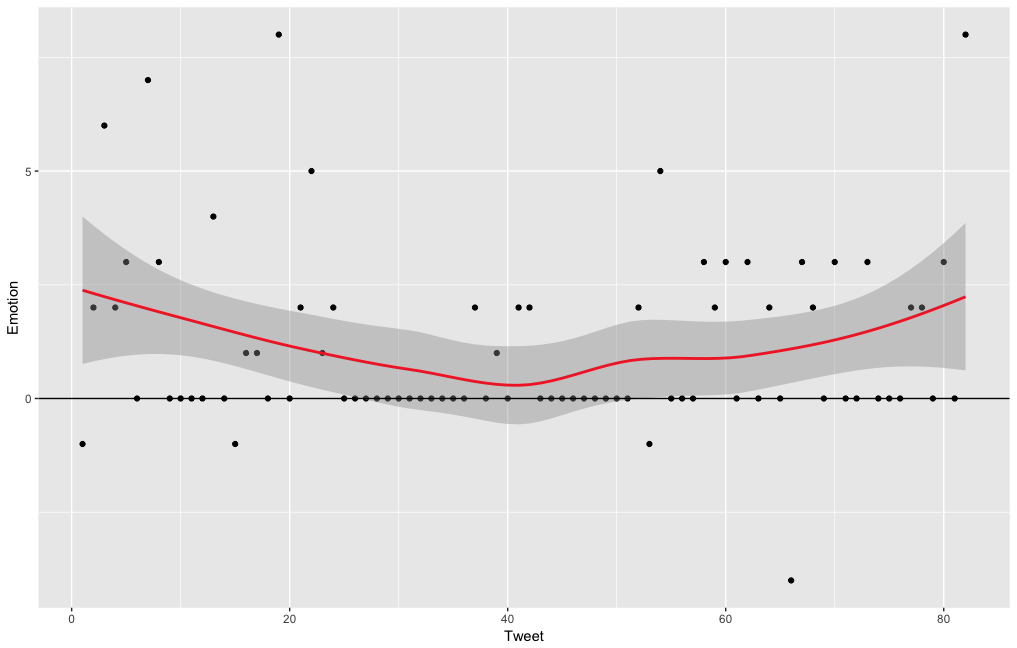
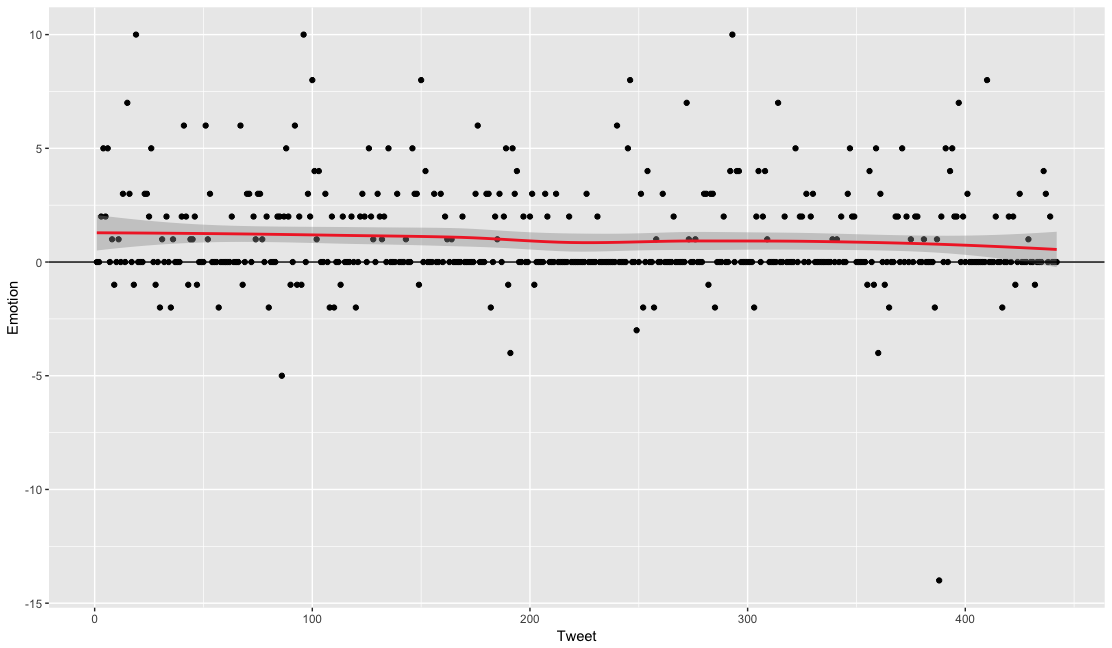
katy perry

diff --git a/index.html b/index.html
@@ -38,34 +38,34 @@
     <p>
         This analysis samples from the Top 10 Twitter accounts in terms of two types of accounts: 
         pop culture figures and political figures. Using the <code>twitteR</code> packages, I 
-        access <a href="http://twitter.com/justinbieber">@justinbieber</a>, <a href="http://twitter.com/KimKardashian">@KimKardashian</a>,
+        access <a href="http://twitter.com/katyperry">@katyperry</a>, <a href="http://twitter.com/KimKardashian">@KimKardashian</a>,
         <a href="http://twitter.com/barackobama">@BarackObama</a>, and <a href="http://twitter.com/realDonaldTrump">@realDonaldTrump</a>'s posts.
+        <br><br>
+        I will also be using the <code>gtrendsR</code> package to fetch Google Trends data on the popularity 
+        of these specific figures to see if their Twitter presence is correlated to their overall relevance and 
+        popularity.
     </p>
     <div class="spacer-5em"></div>
     <h2 class="title is-5">Sentiment</h2>
     <div class="card-container">
         <!-- Justin Bieber Card -->
-        <div style="width:20%">
-            <blockquote class="twitter-tweet" data-lang="en"><p lang="en" dir="ltr">Proud of these kids <a href="https://t.co/M796VNgWWV">pic.twitter.com/M796VNgWWV</a></p>&mdash; Justin Bieber (@justinbieber) <a href="https://twitter.com/justinbieber/status/976131121518804992?ref_src=twsrc%5Etfw">March 20, 2018</a></blockquote>
+        <div style="width:350px">
+            <blockquote class="twitter-tweet" data-lang="en"><p lang="en" dir="ltr">even when you don’t believe in love, love believes in you. ❤</p>&mdash; KATY PERRY (@katyperry) <a href="https://twitter.com/katyperry/status/983627056180224000?ref_src=twsrc%5Etfw">April 10, 2018</a></blockquote>
             <script async src="https://platform.twitter.com/widgets.js" charset="utf-8"></script>
+
         </div>
         <div class="spacer-5emh"></div>
-        <p style="width: 70%"> <br>
-            From a qualitative point of view, Justin Bieber typically uses his Twitter account
-            for music and album promotion as well as a vector for social cause advocacy. Therefore, 
-            we can see that his tweets are relatively neutral and positive when praising and commending 
-            groups for their effort related to a social cause. For example, he made numerous posts for 
-            the <a href="https://twitter.com/AMarch4OurLives">#MarchForOurLives</a> campaign and commended student groups for their efforts.
-            <br><br>
-            Most of his neutral posts are driven by his frequent promotional posts for 
-            his music. Overall, Justin Bieber exhibits general neutral sentiment with occasional
-            positive influxes.
+        <p style="width: 600px"> <br>
+            From a qualitative point of view, Katy Perry's account is dynamically positive. That means, she uses 
+            her account to tweet positive messages across a variety of domains including general wellbeing messages (as seen above)
+            her everyday life, music, and judging on American Idol. However, she has a large set of neutral tweets 
+            as a lot of her content is also general promotional material.
         </p>
     </div>
     <div>
         <div class="spacer-3em"></div>
-        <h3 class="title is-6">Justin Bieber's Tweet Sentiments</h3>
-        <h4 class="subtitle is-6">Sentiment analysis of Justin Bieber's tweets over time.</h4>
+        <h3 class="title is-6">Katy Perry's Tweet Sentiments</h3>
+        <h4 class="subtitle is-6">Sentiment analysis of Katy Perry's tweets over time.</h4>
         <img src="jb_sentiment.png" style="width:700px"/>
     </div>
     <div class="spacer-3em"></div>
